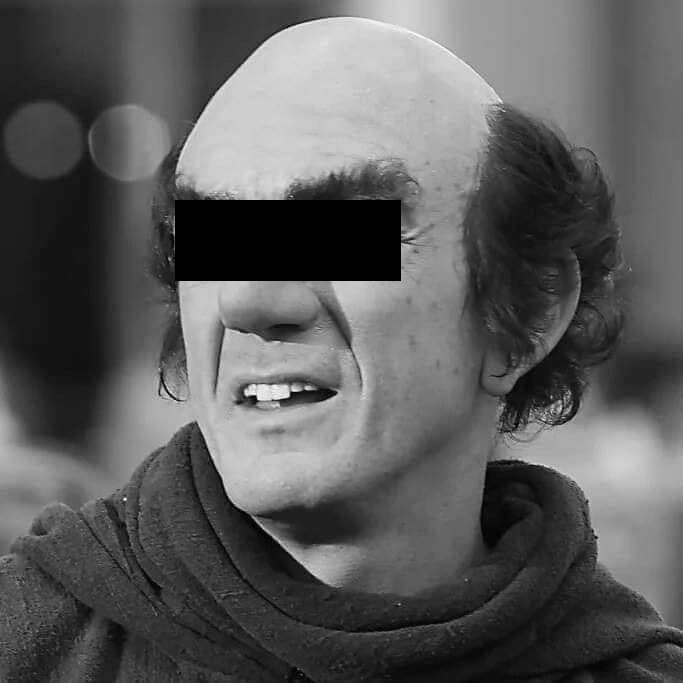
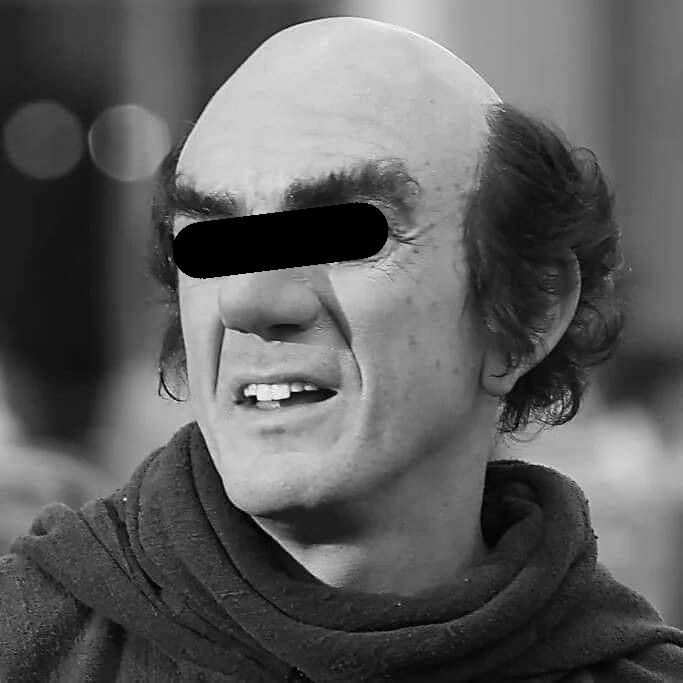
Refactor image processing to use anonymization function and update output image

Changed region(s): [[0.246, 0.2767, 0.5842, 0.4305]]

diff --git a/opdracht_1.py b/opdracht_1.py
@@ -1,6 +1,14 @@
 import argparse
 import cv2
 import numpy as np
+import math
+
+def anonymize(img, eye1, eye2):
+    distance = (math.dist(eye1, eye2))
+    thickness = int(distance * 0.35)
+    result = img.copy()
+    cv2.line(result, eye1, eye2, (0, 0, 0), thickness)
+    return result
 
 parser = argparse.ArgumentParser(description='Verwerk een foto van de schurk')
 parser.add_argument('image_path', type=str, help='Pad naar de afbeelding van de schurk')
@@ -9,9 +17,13 @@ args = parser.parse_args()
 image = cv2.imread(args.image_path)
 
 gray_image = cv2.cvtColor(image, cv2.COLOR_BGR2GRAY)
-cv2.rectangle(gray_image, (175, 200), (400, 280), 0, -1)
 
-cv2.imshow('Grayscale', gray_image)
+eye1 = (200, 250)
+eye2 = (360, 230)
+
+result = anonymize(gray_image, eye1, eye2)
+
+cv2.imshow('Grayscale', result)
 cv2.waitKey(0)  
 cv2.destroyAllWindows()
-cv2.imwrite('verwerkte_schurk.jpg', gray_image)
+cv2.imwrite('verwerkte_schurk.jpg', result)
